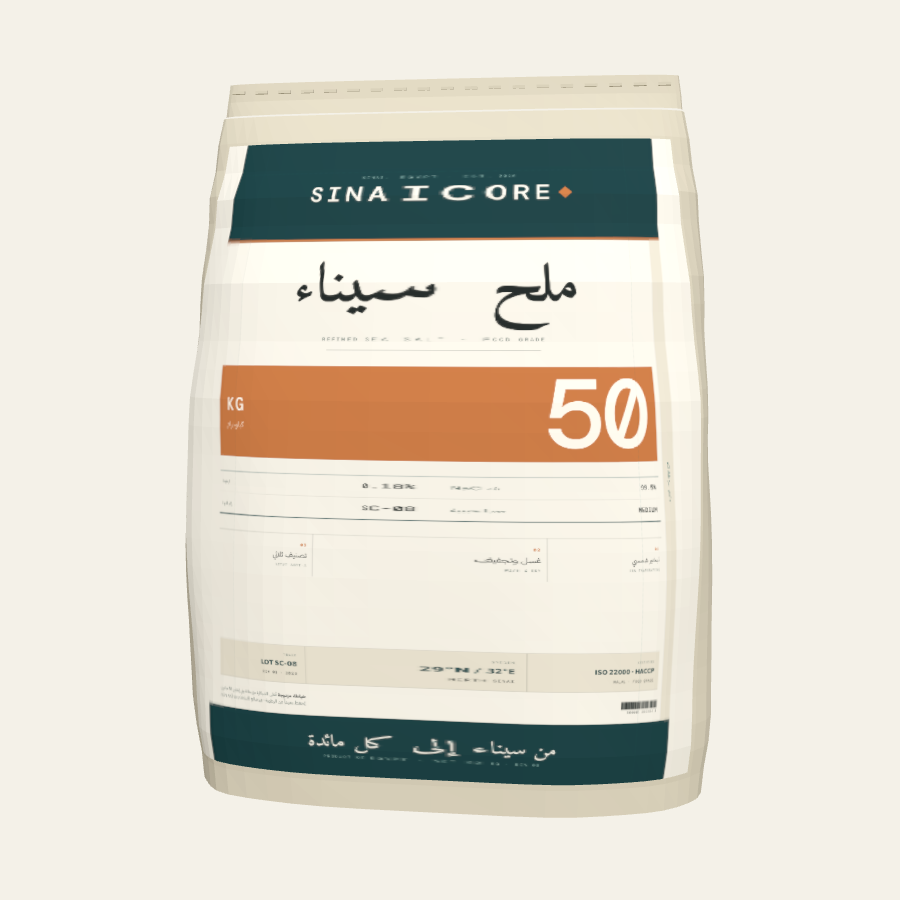
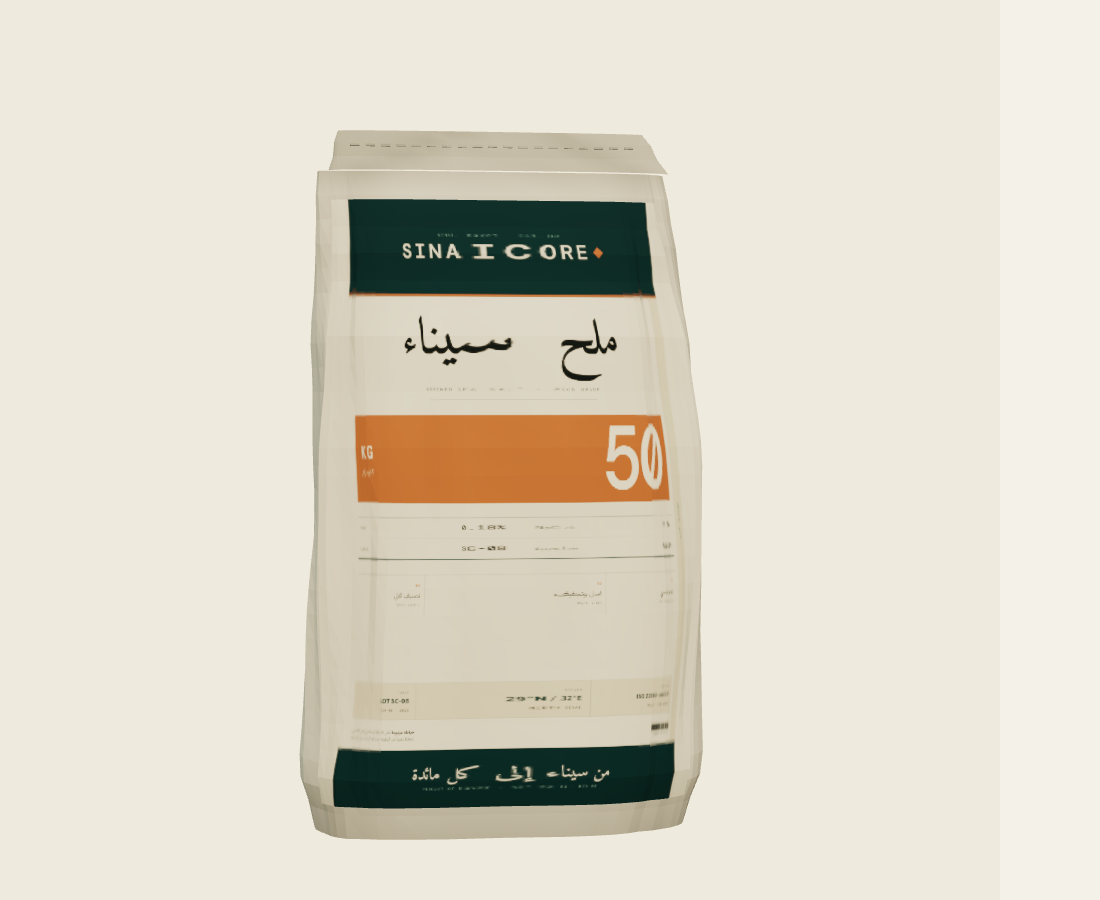
Rework the sack for realism: true 55x95x25 proportions, gussets, folded shoulder, baked vertex AO

diff --git a/src/components/Sculpture.tsx b/src/components/Sculpture.tsx
@@ -622,16 +622,18 @@ function SackAsset({ scale = 1, position = [0, 0, 0], texture }: SackProps) {
        the print is pulled back with a tint and a low env contribution. */
     const printed = new THREE.MeshStandardMaterial({
       map: texture,
-      color: '#ece7db',
+      color: '#ded7c6',
+      vertexColors: true,
       bumpMap: maps.weave,
-      bumpScale: 0.018,
+      bumpScale: 0.024,
       roughnessMap: maps.weave,
-      roughness: 0.9,
+      roughness: 0.92,
       metalness: 0,
-      envMapIntensity: 0.42,
+      envMapIntensity: 0.3,
     })
     const fabric = new THREE.MeshStandardMaterial({
       color: '#cfc7b1',
+      vertexColors: true,
       envMapIntensity: 0.38,
       bumpMap: maps.weave,
       bumpScale: 0.028,
@@ -649,8 +651,24 @@ function SackAsset({ scale = 1, position = [0, 0, 0], texture }: SackProps) {
     return clone
   }, [gltf, maps, texture])
 
+  /* No two bags drop the same way: a deterministic hash of the position gives
+     each instance its own lean and squeeze without keeping state. */
+  const jitter = useMemo(() => {
+    const seed = Math.abs(Math.sin(position[0] * 12.9898 + position[1] * 78.233 + position[2] * 37.719) * 43758.5453)
+    const r = seed - Math.floor(seed)
+    return {
+      rotationY: (r - 0.5) * 0.42,
+      rotationZ: (r - 0.5) * 0.055,
+      scale: 0.965 + r * 0.07,
+    }
+  }, [position])
+
   return (
-    <group position={position} scale={scale}>
+    <group
+      position={position}
+      scale={scale * jitter.scale}
+      rotation={[0, jitter.rotationY, jitter.rotationZ]}
+    >
       <primitive object={object} />
     </group>
   )

diff --git a/README.md b/README.md
@@ -24,7 +24,7 @@ npm run textures # خرائط السطح فقط
 | --- | --- | --- |
 | `public/models/salt-crystal.glb` | 2.9 kB | بلورة هاليت بنمو «hopper» (أوجه متدرّجة) وحواف مشطوفة وبذرتين صغيرتين |
 | `public/models/container.glb` | 15.1 kB | حاوية 20 قدم: تضليع شبه منحرف حقيقي، زوايا مصبوبة، قضبان إغلاق، وبابان كعقدتين `door-left` / `door-right` |
-| `public/models/sack.glb` | 18.7 kB | شيكارة 50 كجم مجسّمة: جسم منتفخ بخصر علوي مضغوط وخياطة، ووجه مطبوع كسطح منفصل بـUV مستقيمة |
+| `public/models/sack.glb` | 25.1 kB | شيكارة 50 كجم مجسّمة: 55×95×25 سم نسبياً، خصر مضغوط وفوهة مخيطة، طيّات جوانب، قاعدة متفتحة، ووجه مطبوع كسطح منفصل بـUV مستقيمة |
 
 كلاهما مضغوط بـ Draco (`KHR_draco_mesh_compression`) ويُعاد توليده بالأمر:
 
@@ -37,10 +37,18 @@ npm run models
 `ContainerPaint`, `ContainerFrame`, `ContainerDoor`, `ContainerFloor`,
 `ContainerCastings`, `Crystal` — والمشهد يضبط `envMapIntensity` والظلال عليها.
 
+الشيكارة بتُبنى في `buildSack`: جسم ملفوف على 28 حلقة بمقطع superellipse، مع
+تفتّح القاعدة (settle)، طيّة كتف، خطوط طيّ عند جوانب الشكل الخمسيني (gussets)،
+ميل خفيف للإطار، وخياطة من صفّين من الغرز. الوجه المطبوع سطح منفصل بـ`COLOR_0`
+لتظليل التجاويف (vertex AO) — قاعدة وكتف وطيّات أغمق قليلاً بدل لون موحّد.
+
 عناصر الشيكارة (`sack-body` / `sack-panel`) حاملة خامتين: الوجه المطبوع
 (`SackPrint`) يستقبل `map` من `public/artwork/sack-50kg-texture.png` داخل
 `Sculpture.tsx`، وباقي القماش (`SackBody`) لونه ورق وخرزة النسيج فقط — فالطبعة
 تلتف على البروز ولا تُسطَّح على شكل صندوق.
+
+كل نسخة شيكارة داخل المشهد بتاخد ميل وضغط مختلفين من hash لموقعها، فمتبانش
+مستنسخة في الحاوية.
 
 **استبدالها بمجسم جاهز** (Sketchfab / Poly Haven): نزّل الـGLB (يفضّل CC0)،
 ضع الملف بنفس الاسم في `public/models/`، واحتفظ بنقطتين:
